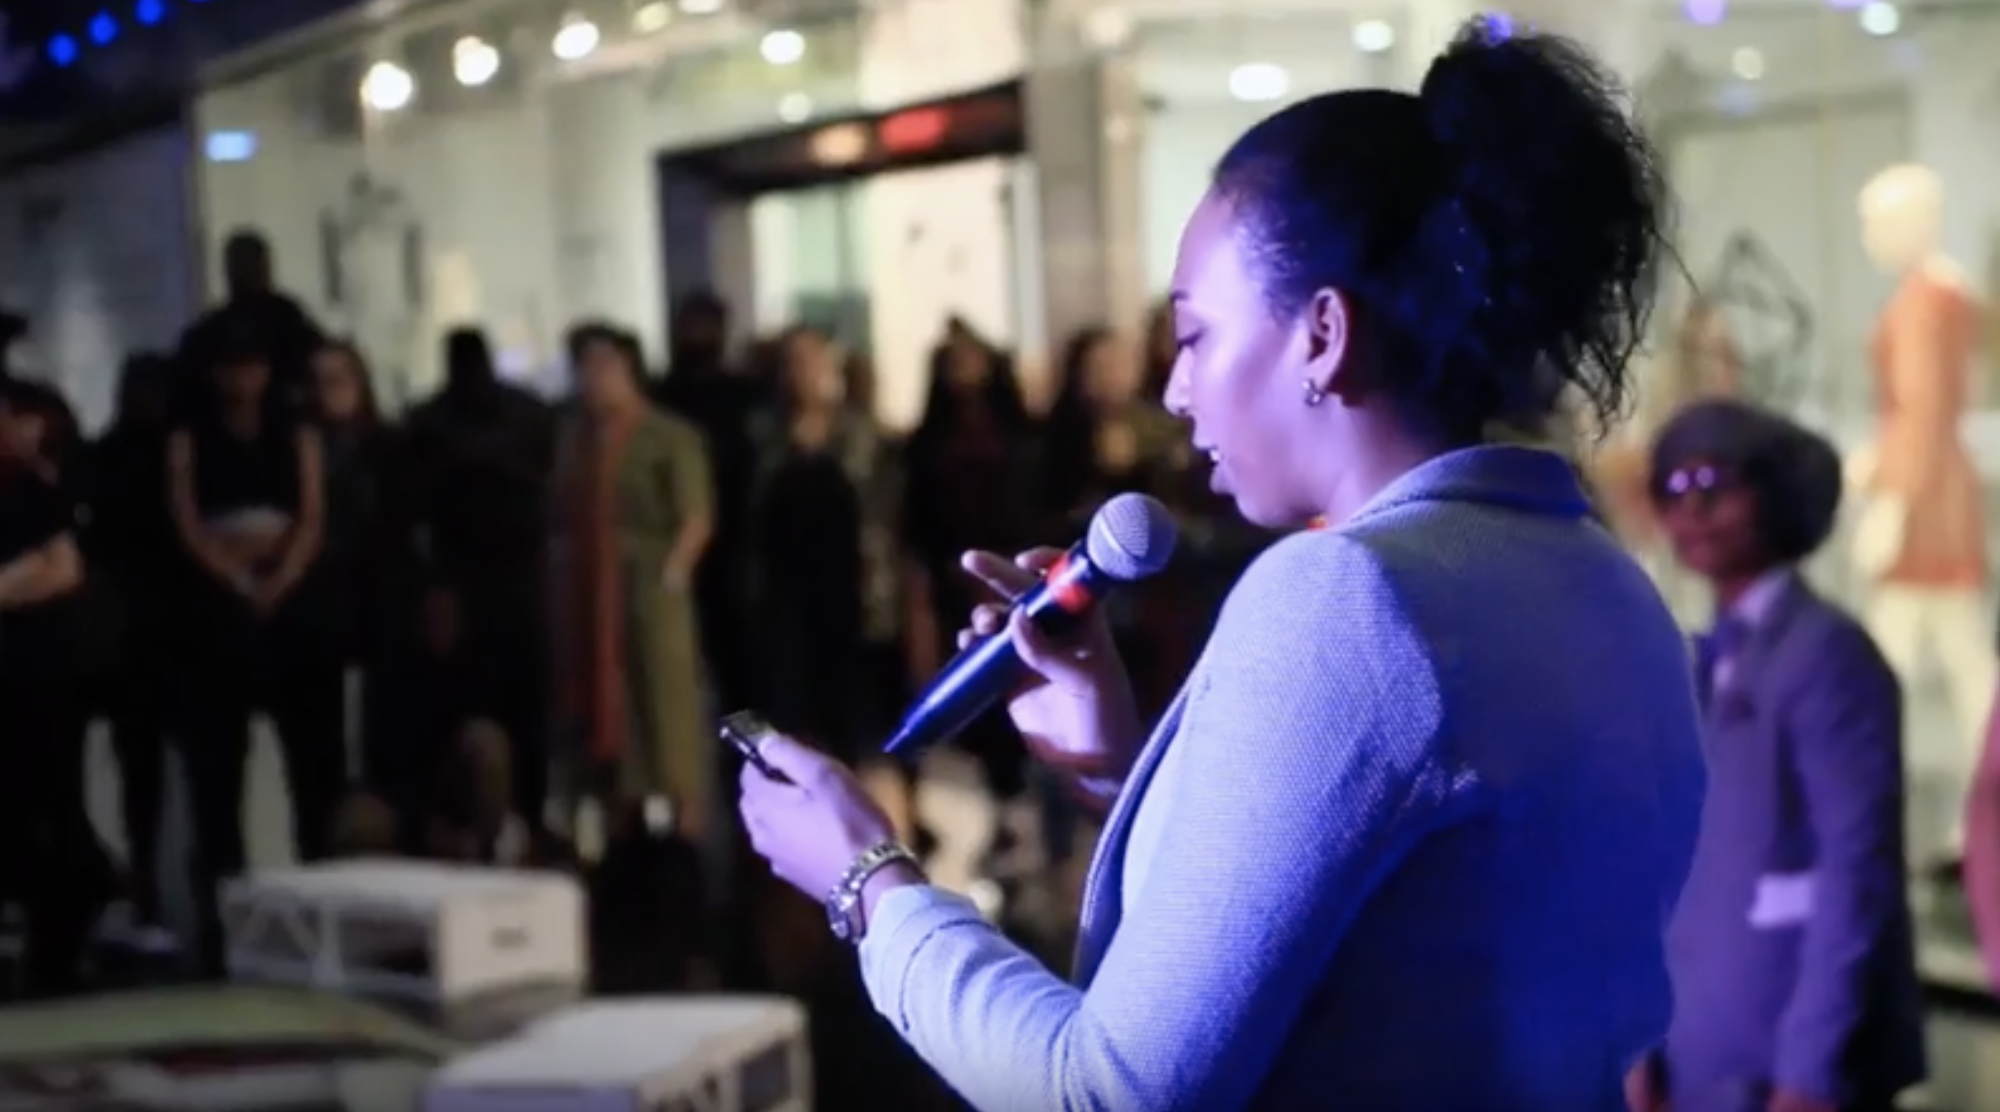
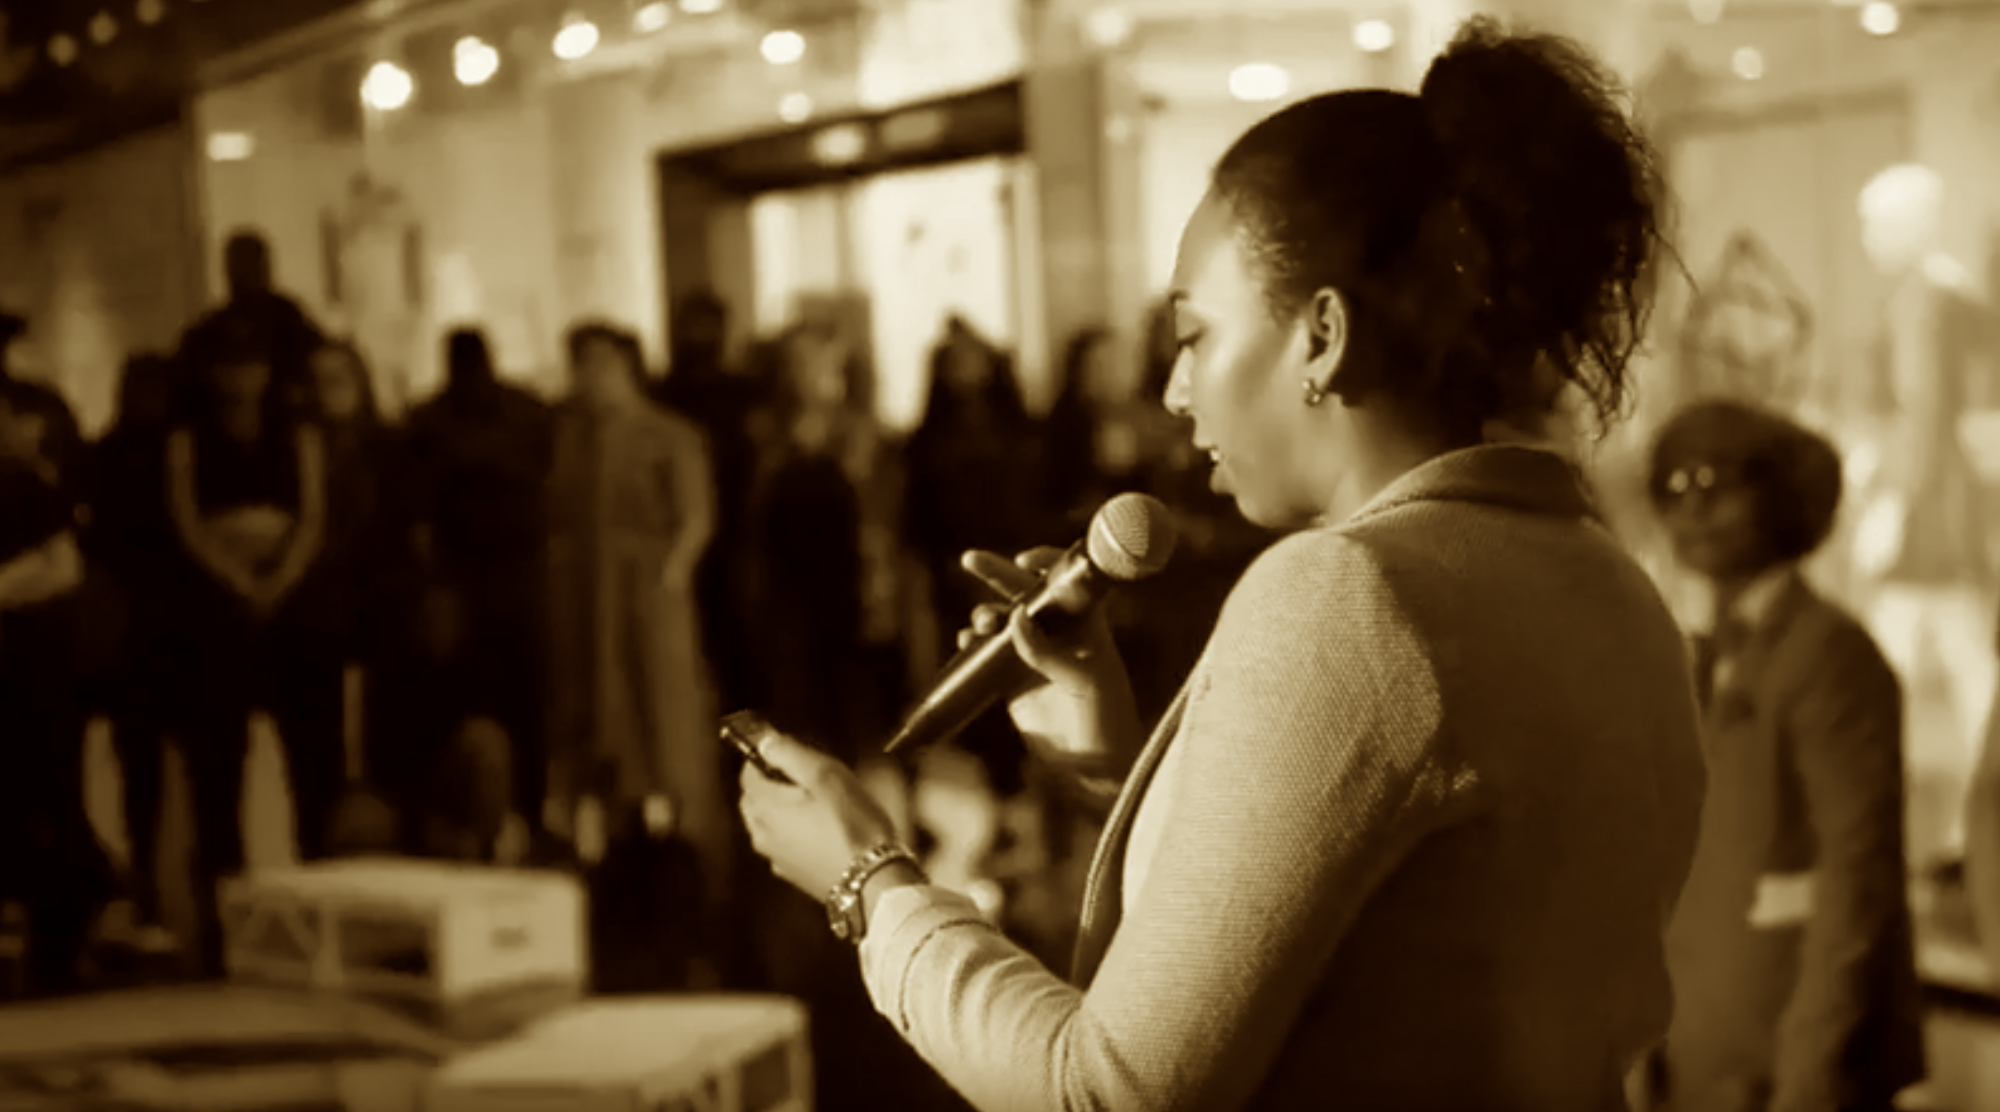
mobile nav

diff --git a/style-mobile.css b/style-mobile.css
@@ -1,0 +1,118 @@
+@media only screen and (max-width: 600px) {
+  /* GENERAL PAGE VIEW MOBILE*/
+  body {
+    background-image: url("./pic2.png");
+  }
+
+  h1 {
+
+    font-size: 2rem;
+    letter-spacing: 0;
+  }
+
+  h2 {
+    font-size: 1rem;
+
+
+  }
+
+  p {
+
+    font-size: 1rem;
+    font-family: 'Roboto', sans-serif;
+    line-height: 1.5;
+    font-weight: 600;
+  }
+
+
+  /* .overlay-background{
+    position: absolute;
+    height: 400%;
+    width: 100%;
+    top: 0;
+    left: 0;
+    background-color: rgba(70, 228, 214, 0.85);
+    overflow: hidden;
+    opacity: 0.7;
+  } */
+
+  /* MENU/NAVIGATION */
+  .menu-burger {
+
+    top: 4%;
+    right: 13%;
+    font-size:24px;
+
+  }
+
+  .overlay-content {
+    width: 136px;
+    top: 25%;
+    left: 5%;
+
+  }
+
+
+  .overlay a {
+
+    font-size:2rem;
+
+  }
+
+
+  .overlay a:hover, .overlay a:focus {
+    color: rgb(255, 194, 232);
+    -webkit-transform: 0;
+          -ms-transform: 0;
+          transform: 0;
+  }
+
+
+  .overlay .closebtn {
+    top: 4%;
+    right: 13%;
+    font-size:24px;
+  }
+
+  /* HOME SECTION */
+
+  .home-container {
+
+    top: 15%;
+    left: 10%;
+
+  }
+
+  /* CUBE */
+
+  .cube {
+    position: absolute;
+    top: 96%;
+    left: 16%;
+    width: 35%;
+  }
+
+  /* THE SPIEL */
+  .spiel {
+    position: absolute;
+    top: 193%;
+    left: 16%;
+    width: 67%;
+  }
+
+  /* CONTACT */
+  .contact {
+    position: absolute;
+    top: 289%;
+    left: 16%;
+  }
+
+  /* PROJECTS */
+  .projects {
+    position: absolute;
+    top: 320%;
+    left: 16%;
+  }
+
+
+}

diff --git a/index.html b/index.html
@@ -4,6 +4,7 @@
     <meta charset="utf-8">
     <meta name="viewport" content="width=device-width, initial-scale=1, shrink-to-fit=no">
     <link rel="stylesheet" type="text/css" href="style.css">
+    <link rel="stylesheet" type="text/css" href="style-mobile.css">
     <link rel="stylesheet" href="https://cdnjs.cloudflare.com/ajax/libs/animate.css/3.7.2/animate.min.css">
     <script src="https://ajax.googleapis.com/ajax/libs/jquery/3.4.1/jquery.min.js"></script>
     <title>Shekayla Maragh</title>

diff --git a/style.css b/style.css
@@ -10,6 +10,13 @@ body {
   background-size: cover;
 }
 
+@media screen and (max-height: 600px) {
+  /* GENERAL PAGE VIEW */
+  body {
+    background-image: url("./pic.png");
+  }
+}
+
 h1 {
   color: white;
   font-size: 4rem;
